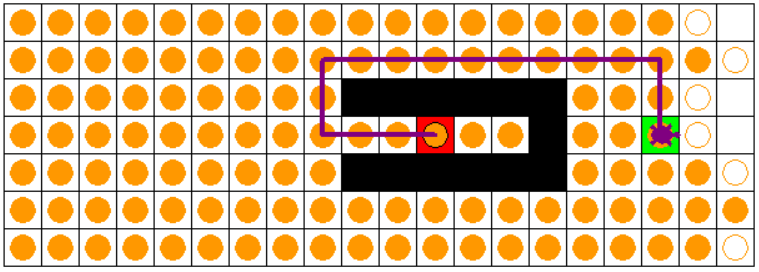
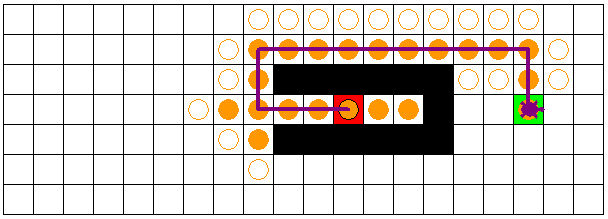
Fixed and added two images

diff --git a/A2.py b/A2.py
@@ -3,4 +3,4 @@ import Util as U  # Provides the Square class, A* algorithm methods and helper m
 __author__ = 'Øyvind & Herman'
 
 
-U.a_star('board-2-4', True)
+U.a_star('board-2-1', True)
